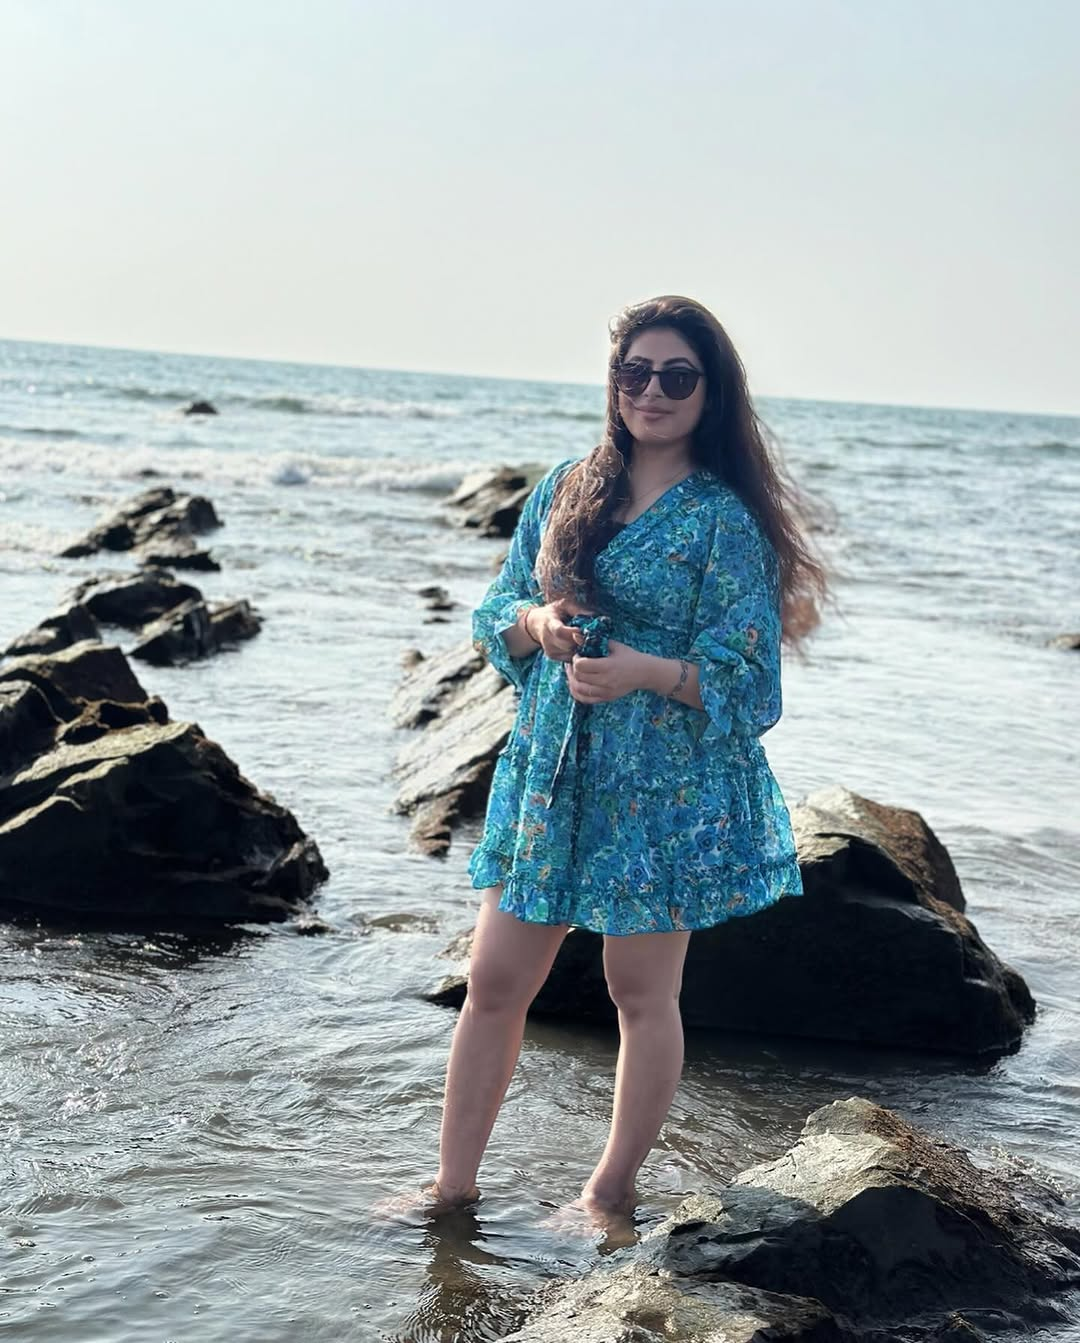
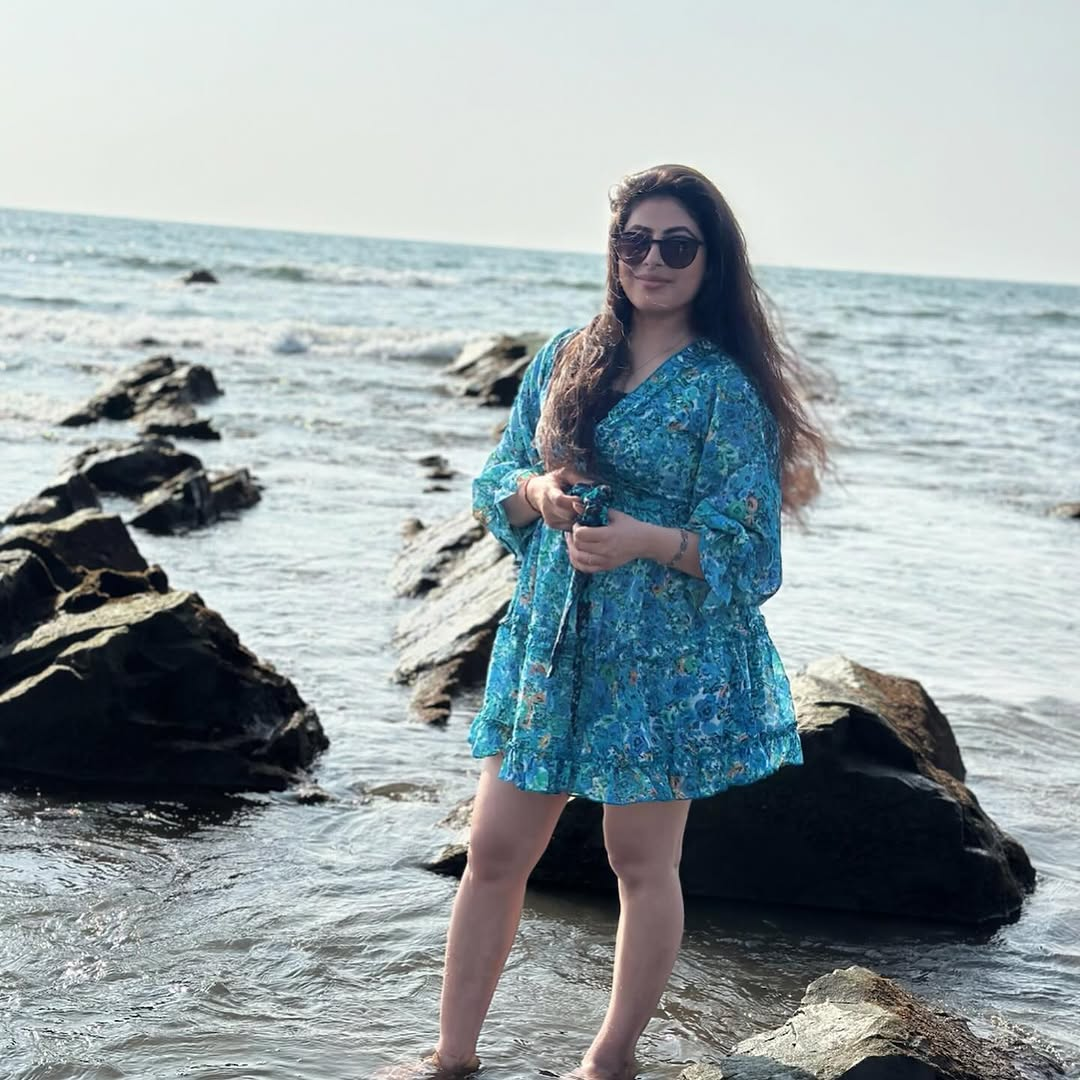
Rebuild the photo wall from fourteen reviewed photographs
Pulled the full account via the SocialFetch API rather than the twelve
posts in the pasted payload -- 51 posts, five credits, paginated. The
twelve were all from one three-week stretch in March 2024, which is why
the wall looked narrow: it was a sample, not the account.

Every photograph was then reviewed individually and approved. Fourteen
are in, spanning 2019 to 2024: a Royal Enfield, a basketball, two hill
trips, a coast trip, Holi, Republic Day, a black-and-white metro shot.
Only two of the previous eight survived review.

Four candidates were declined specifically because someone other than
her was recognisable -- her mother, her sister, her brother, a friend at
Holi. They have not been asked and cannot consent by proxy.

The stray `?url=.../in/marclouvion` in the endpoint given to us was a
docs example; the posts endpoint takes only handle and cursor, so it
would have been ignored or rejected. Confirmed against the OpenAPI spec
before spending a credit.

Life cards now reflect what the fuller account actually shows -- hills
and a motorcycle alongside the sea -- and the hero tagline with them.

Fixes an alt-text error: #30 was described as an outdoor shot, written
from a thumbnail. It is a close portrait. Alt text that misdescribes an
image is worse than none, so each description was checked against the
full-size file.

Claude-Session: https://claude.ai/code/session_01AtGzDgiLmcrc6eA4gWi1gv

diff --git a/src/data/gallery.ts b/src/data/gallery.ts
@@ -1,29 +1,41 @@
 /**
  * The photo wall.
  *
+ * Every image here was reviewed and approved individually. Four were turned
+ * down specifically because someone other than her was recognisable in them —
+ * her mother, her sister, her brother, a friend at Holi — since they have not
+ * been asked and cannot consent by proxy. If any of those are wanted later,
+ * ask the people in them first.
+ *
  * Images live in src/assets/photos/ (not public/) so Astro optimises them:
- * each one is re-encoded, resized to several widths and served with a srcset.
- * The originals are ~1080px Instagram exports; nothing is ever upscaled.
+ * each is re-encoded to WebP at three widths and served with a srcset.
  *
  * `caption` is her own Instagram caption wherever one exists — her voice
  * beats anything written for her. `alt` is a plain description for screen
- * readers and is never the same text as the caption, which would just read
- * the emoji twice.
+ * readers and is deliberately never the same text, or a screen reader just
+ * reads the emoji aloud.
  *
- * To add a photo: drop the file in src/assets/photos/, import it, add an
- * entry. To remove one: delete its entry.
+ * Order below is the order on the page. It is arranged for contrast rather
+ * than chronology: the motorcycle opens, and no two photographs from the same
+ * trip sit next to each other.
  */
 
 import type { ImageMetadata } from 'astro';
 
+import royalEnfield from '../assets/photos/royal-enfield.jpg';
+import basketball from '../assets/photos/basketball.jpg';
 import inTheSea from '../assets/photos/in-the-sea.jpg';
-import waterfall from '../assets/photos/waterfall.jpg';
+import metro from '../assets/photos/metro.jpg';
+import holi from '../assets/photos/holi.jpg';
+import hills from '../assets/photos/hills.jpg';
+import policeBox from '../assets/photos/police-box.jpg';
 import palace from '../assets/photos/palace.jpg';
-import archway from '../assets/photos/archway.jpg';
-import desk from '../assets/photos/desk.jpg';
-import road from '../assets/photos/road.jpg';
-import festive from '../assets/photos/festive.jpg';
-import quiet from '../assets/photos/quiet.jpg';
+import inTheAir from '../assets/photos/in-the-air.jpg';
+import republicDay from '../assets/photos/republic-day.jpg';
+import stoneTemple from '../assets/photos/stone-temple.jpg';
+import redAndGold from '../assets/photos/red-and-gold.jpg';
+import sareeStreet from '../assets/photos/saree-street.jpg';
+import laapata from '../assets/photos/laapata.jpg';
 
 export interface Photo {
   src: ImageMetadata;
@@ -35,14 +47,39 @@ export interface Photo {
 
 export const gallery: Photo[] = [
   {
+    src: royalEnfield,
+    alt: 'Sitting astride a Royal Enfield in a cap and sunglasses, hands on the bars',
+    caption: '#bullet',
+  },
+  {
     src: inTheSea,
     alt: 'Standing barefoot on rocks in the shallows, in a blue printed dress',
     caption: 'Day 2⃣ 🌊',
   },
   {
-    src: desk,
-    alt: 'Chin resting on her hand, grinning, in a bright pink top and glasses',
-    caption: 'Tune wo kaam kar 🪔',
+    src: metro,
+    alt: 'Black and white photograph, holding the overhead strap on a moving metro train',
+    caption: 'You gotta keep your head up ✌🏾',
+  },
+  {
+    src: policeBox,
+    alt: 'In a bright pink top beside an old blue police call box, hand on hip',
+    caption: 'Calling Police 😁',
+  },
+  {
+    src: basketball,
+    alt: 'In a Levi’s t-shirt and shorts, holding a basketball under one arm',
+    caption: 'Don’t change who you are to impress someone',
+  },
+  {
+    src: hills,
+    alt: 'Leaning on a railing with her back to the camera, looking out over forested hills',
+    caption: '🏔 ☮',
+  },
+  {
+    src: holi,
+    alt: 'Streaks of Holi colour through her hair and across one cheek',
+    caption: 'Playing with colour ♥💚💖🌈',
   },
   {
     src: palace,
@@ -50,27 +87,31 @@ export const gallery: Photo[] = [
     caption: 'Beauty that defies the passage of time 💫',
   },
   {
-    src: archway,
-    alt: 'Silhouetted in a scalloped stone archway, looking out over a city',
-    caption: 'Jab samne tum aa jate ho ♥',
+    src: inTheAir,
+    alt: 'Suspended high above a forested valley, small against the mountainside',
+    caption: 'In the air 🏔',
   },
   {
-    src: waterfall,
-    alt: 'A wide waterfall spilling down a green hillside, people watching from the rocks',
-    caption: 'Day 3⃣ 🌊',
+    src: republicDay,
+    alt: 'In a yellow and black saree on a sunlit street',
+    caption: 'Republic Day 🎉',
   },
   {
-    src: festive,
-    alt: 'Dressed up in pink with statement earrings',
-    caption: '💖💖✨',
+    src: stoneTemple,
+    alt: 'Seated on the steps of an old stone temple against a bright sky',
+    caption: 'Stone temple 🙏🏻🌸',
   },
   {
-    src: road,
-    alt: 'In the passenger seat of a car, in a mustard jumper',
-    caption: '🌠💫',
+    src: laapata,
+    alt: 'Smiling close up, head tilted, hair falling loose across the frame',
+    caption: 'Main arse se khud se zara laapata hoon',
   },
   {
-    src: quiet,
-    alt: 'Wrapped in a cream shawl with her eyes closed',
+    src: sareeStreet,
+    alt: 'In a saree, turning towards the camera on a street in low afternoon sun',
+  },
+  {
+    src: redAndGold,
+    alt: 'In red and gold with stacked bangles along one arm',
   },
 ];

diff --git a/src/data/site.ts b/src/data/site.ts
@@ -37,7 +37,7 @@ export const site = {
    * sea, a camera never far away. Replace it with hers when you can.
    */
   tagline:
-    'Order to Cash by day. Coastlines, cameras and a camera roll that is 90% sky the rest of the time.',
+    'Order to Cash by day. Coastlines, hill roads and a Royal Enfield the rest of the time.',
 
   description:
     'Geetanjali Raghav — Accounts Receivable and Order to Cash at Genpact, based in Delhi. Photographs, coastlines, and the occasional excellent outfit.',
@@ -50,8 +50,8 @@ export const site = {
   facts: [
     { icon: '📍', text: 'Delhi, India' },
     { icon: '🌊', text: 'Happiest near water' },
+    { icon: '🏍', text: 'Owns one very good motorcycle photo' },
     { icon: '🎧', text: 'Hindi film songs, always' },
-    { icon: '🎬', text: '10k on the other side of the camera' },
   ] as Fact[],
 
   /**

diff --git a/CONTENT.md b/CONTENT.md
@@ -53,7 +53,7 @@ but not the subject.
 
 Images live in `src/assets/photos/` (**not** `public/`) so Astro optimises
 them: each is re-encoded to WebP at three widths and served with a `srcset`.
-That is why the whole site is ~1.3MB instead of several times that.
+That is why the site is ~2.3MB with fourteen photographs instead of far more.
 
 ```ts
 import newPhoto from '../assets/photos/new-photo.jpg';
@@ -69,10 +69,11 @@ import newPhoto from '../assets/photos/new-photo.jpg';
 describes what is in the frame. Never make them the same string, or a screen
 reader just reads the emoji aloud.
 
-**Nine photos were pulled from her Instagram; eight are in use.**
-`src/assets/photos/glam.jpg` is downloaded but not shown — it is the most
-glamour-forward of the set and felt like a call she should make rather than
-me. Add it in one line if she wants it.
+**Fourteen photos, each individually approved.**
+Four candidates were turned down specifically because someone other than her
+was recognisable in them — her mother, her sister, her brother, a friend at
+Holi. They have not been asked and cannot consent by proxy. If any are wanted
+later, ask the people in them first.
 
 ## 4. Life cards — `src/content/life/*.md`
 
@@ -93,7 +94,7 @@ A sentence or two.
 
 ## Still worth getting from her
 
-**Her words.** The tagline and all four life cards are currently written *from*
+**Her words.** The tagline and all six life cards are currently written *from*
 her public profiles rather than *by* her. They are accurate, but they are not
 her voice, and on a personal site that is the difference between good and
 right. Each file says so in a comment.
@@ -112,6 +113,6 @@ right. Each file says so in a comment.
 - [ ] Any photos she would rather have than the ones pulled from Instagram
 
 **Permissions**
-- [ ] Confirm she is happy with all eight photographs being on a public page
+- [ ] Confirm she is happy with all fourteen photographs being on a public page
 - [ ] Confirm she is happy for the follower count to be mentioned
 - [ ] Then set `approved: true`

diff --git a/src/content/life/music.md b/src/content/life/music.md
@@ -1,11 +1,11 @@
 ---
-# Evidence: two Instagram captions are Hindi film-song lyrics — "Jab samne
-# tum aa jate ho" and "Tune wo kaam kar".
+# Evidence: several captions are Hindi film-song lyrics — "Jab samne tum aa
+# jate ho", "Tune wo kaam kar", "Main arse se khud se zara laapata hoon".
 title: On repeat
 icon: '🎧'
-order: 2
+order: 4
 draft: false
 ---
 
-Hindi film songs, mostly. The kind that end up as captions because nothing
-else says it better.
+Hindi film songs, mostly. Half my captions are just lyrics I could not
+improve on.

diff --git a/src/content/life/dressing-up.md b/src/content/life/dressing-up.md
@@ -1,11 +1,10 @@
 ---
-# Evidence: several posts tagged to a makeup studio, plus festive and
-# occasion looks across the feed.
+# Evidence: Republic Day saree, Diwali, and a long run of occasion looks.
 title: Dressing up
 icon: '✨'
-order: 4
+order: 5
 draft: false
 ---
 
-Any excuse. Weddings, festivals, a Tuesday — if there is a reason to put on
-the good earrings, I will find it.
+Any excuse. Diwali, Republic Day, Holi, a Tuesday — if there is a reason to
+put on the good earrings, I will find it.

diff --git a/src/content/life/camera.md b/src/content/life/camera.md
@@ -1,11 +1,10 @@
 ---
-# Evidence: public creator account, ~10,700 followers, 51 posts, 17 story
-# highlights, reels posted July 2026.
+# Evidence: public creator account, ~10,700 followers, 51 posts since 2019.
 #
 # Check she's happy for the follower count to be mentioned at all.
 title: Behind the camera
 icon: '🎬'
-order: 3
+order: 6
 draft: false
 ---
 

diff --git a/src/content/life/hills.md b/src/content/life/hills.md
@@ -1,0 +1,11 @@
+---
+# Grounded in the 2023 hill trip: #25 hills, #26 stone temple, #27 police box,
+# #28 "In the air". Four posts across a few days.
+title: And hills
+icon: '🏔'
+order: 2
+draft: false
+---
+
+Then again, the mountains have a decent claim too. Old stone temples, cold
+air, and at least one afternoon spent dangling over a valley.

diff --git a/src/content/life/two-wheels.md b/src/content/life/two-wheels.md
@@ -1,0 +1,9 @@
+---
+# Grounded in #08 "#bullet" (Jan 2020) and #12, both on a Royal Enfield.
+title: Two wheels
+icon: '🏍'
+order: 3
+draft: false
+---
+
+There is a photo of me on a Royal Enfield that I will never take down.

diff --git a/src/content/life/sea.md b/src/content/life/sea.md
@@ -1,0 +1,9 @@
+---
+# Grounded in the March 2024 coast trip on her Instagram.
+title: Salt water
+icon: '🌊'
+order: 1
+draft: false
+---
+
+Give me a coastline over a city break every time.
